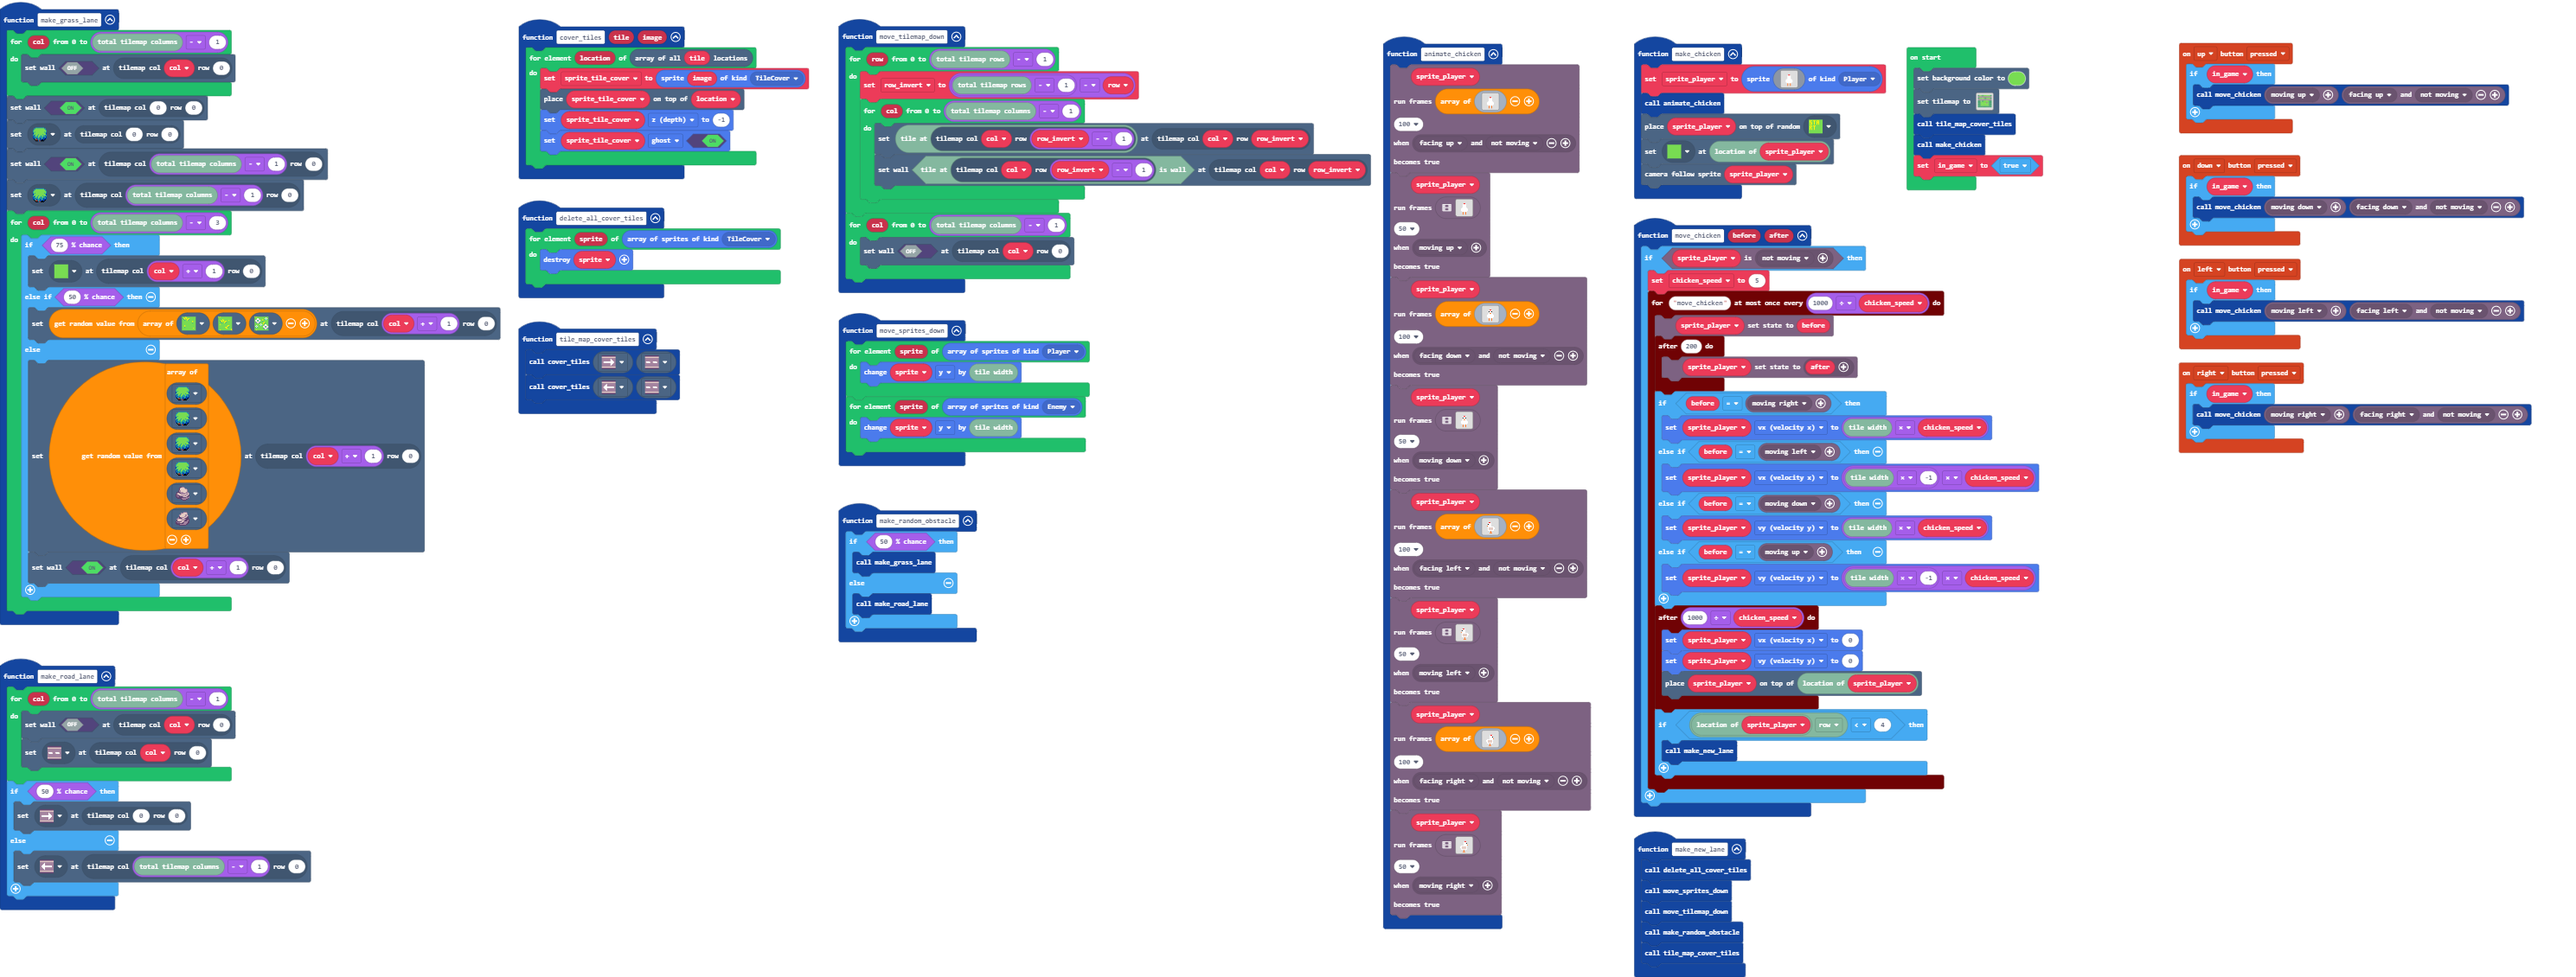
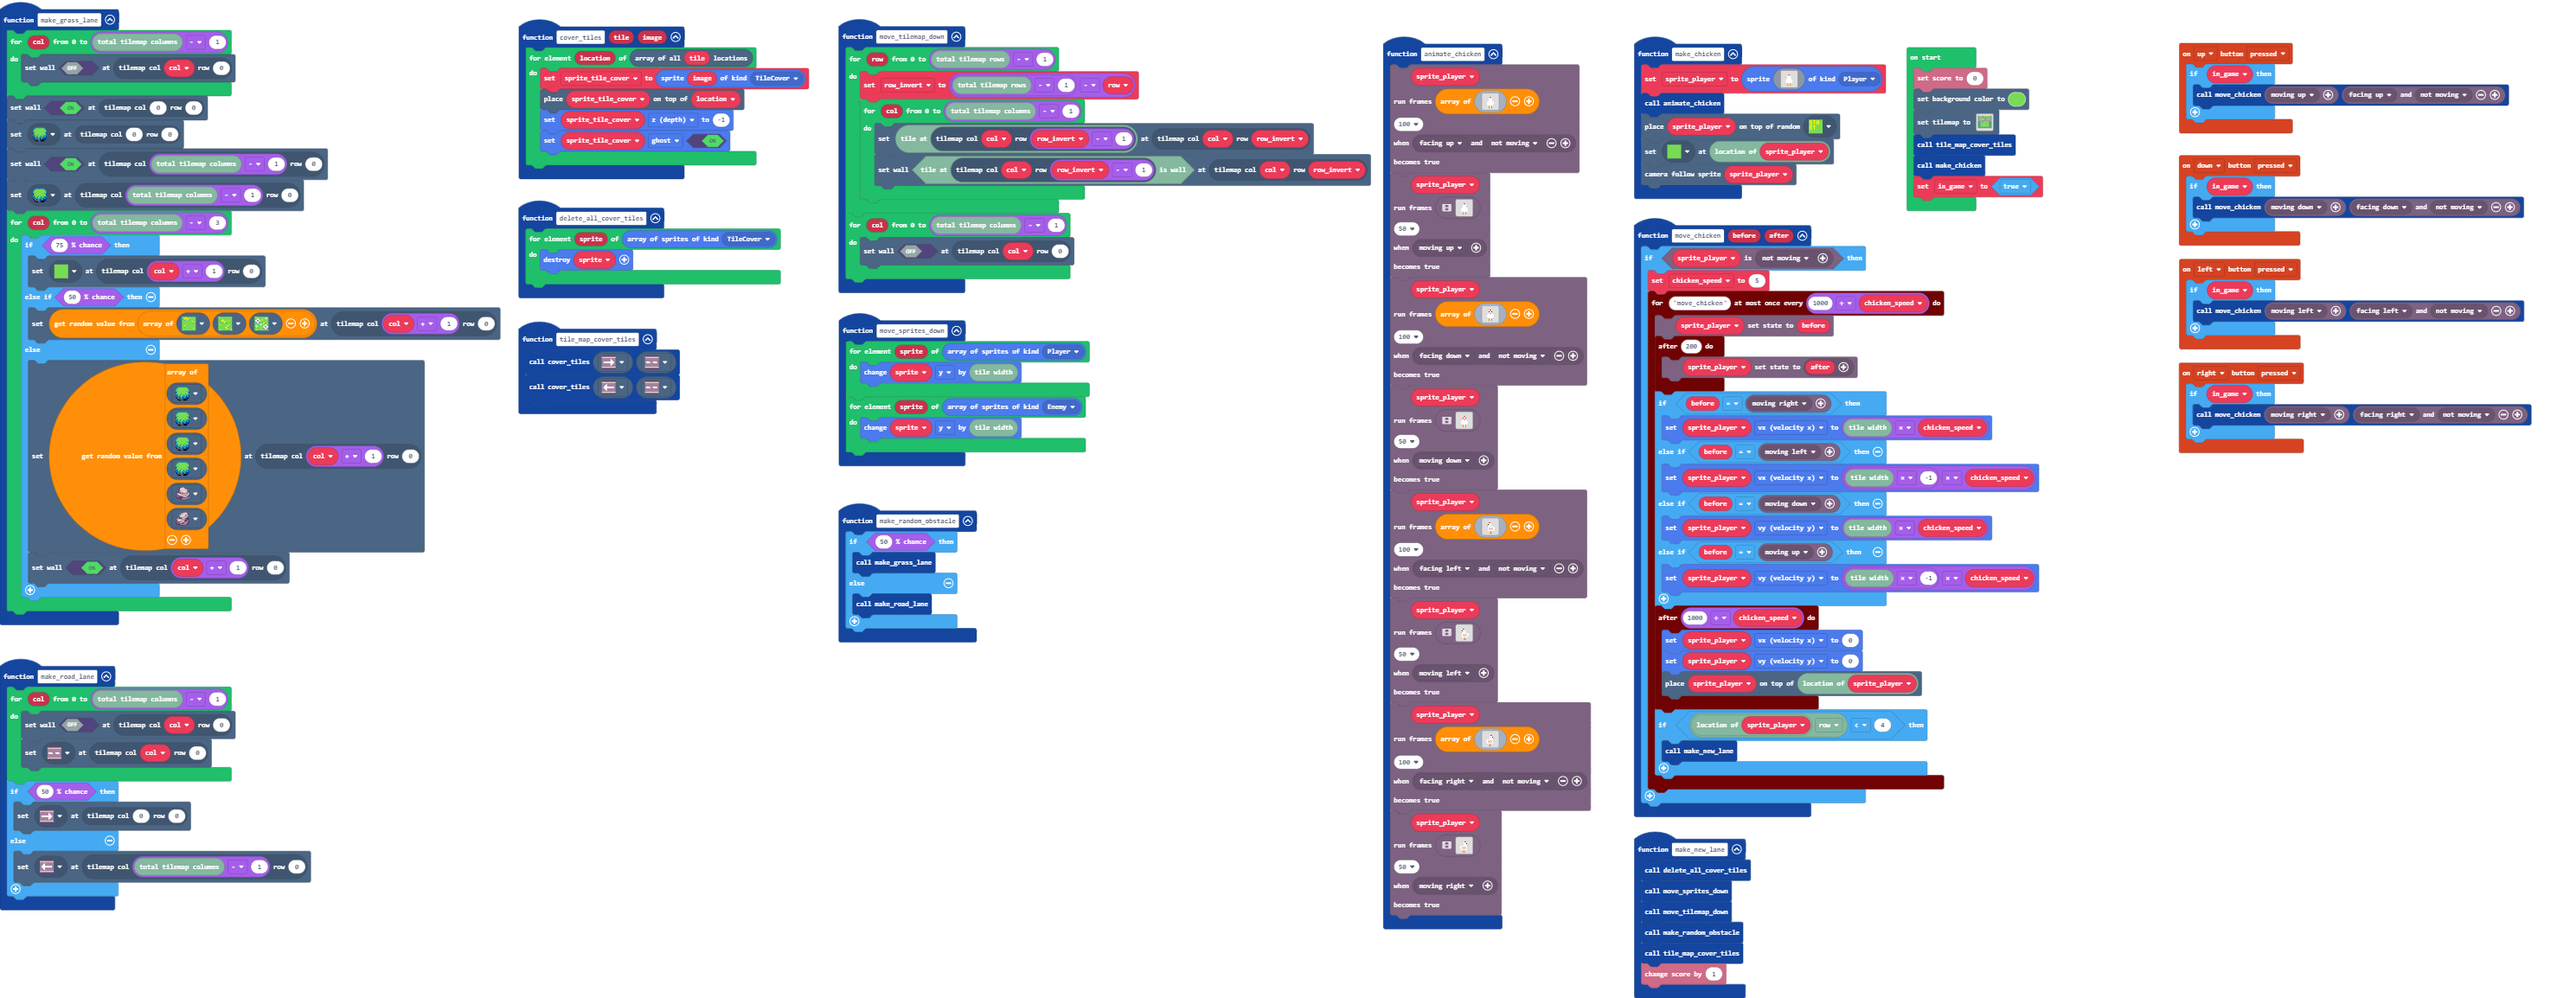
Add score

Changed region(s): [[0.0, 0.0, 0.812, 0.9912], [0.8432, 0.031, 0.9993, 0.4646]]

diff --git a/main.ts b/main.ts
@@ -170,6 +170,7 @@ function make_new_lane () {
     move_tilemap_down()
     make_random_obstacle()
     tile_map_cover_tiles()
+    info.changeScoreBy(1)
 }
 function tile_map_cover_tiles () {
     cover_tiles(assets.tile`road_right`, sprites.vehicle.roadHorizontal)
@@ -199,6 +200,7 @@ let chicken_speed = 0
 let sprite_player: Sprite = null
 let sprite_tile_cover: Sprite = null
 let in_game = false
+info.setScore(0)
 scene.setBackgroundColor(7)
 tiles.setTilemap(tilemap`map`)
 tile_map_cover_tiles()
